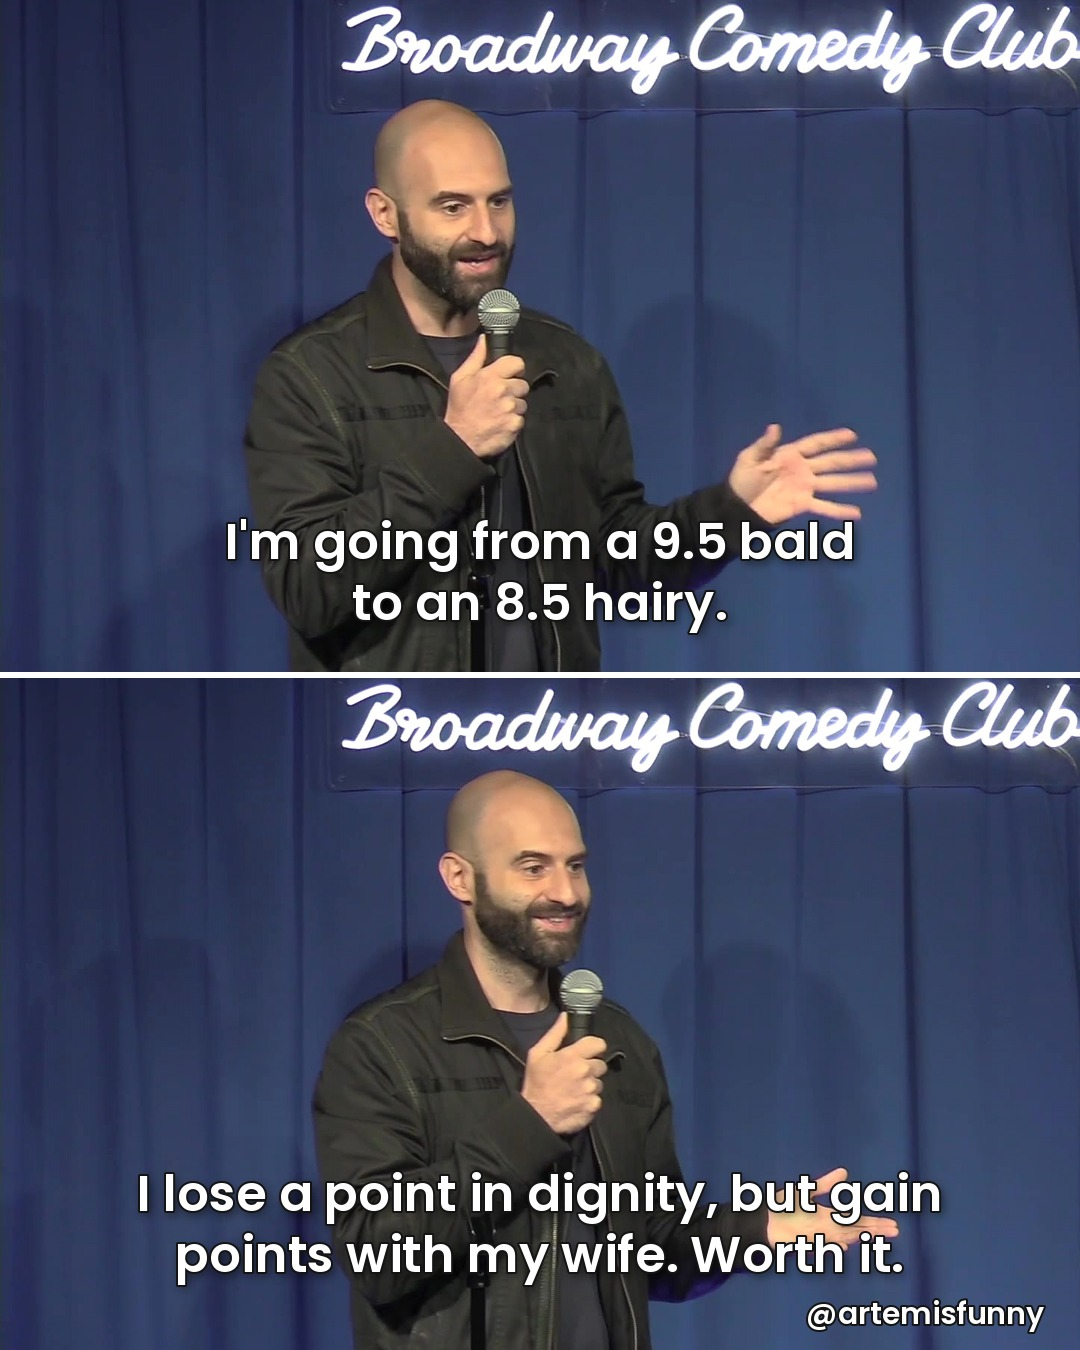
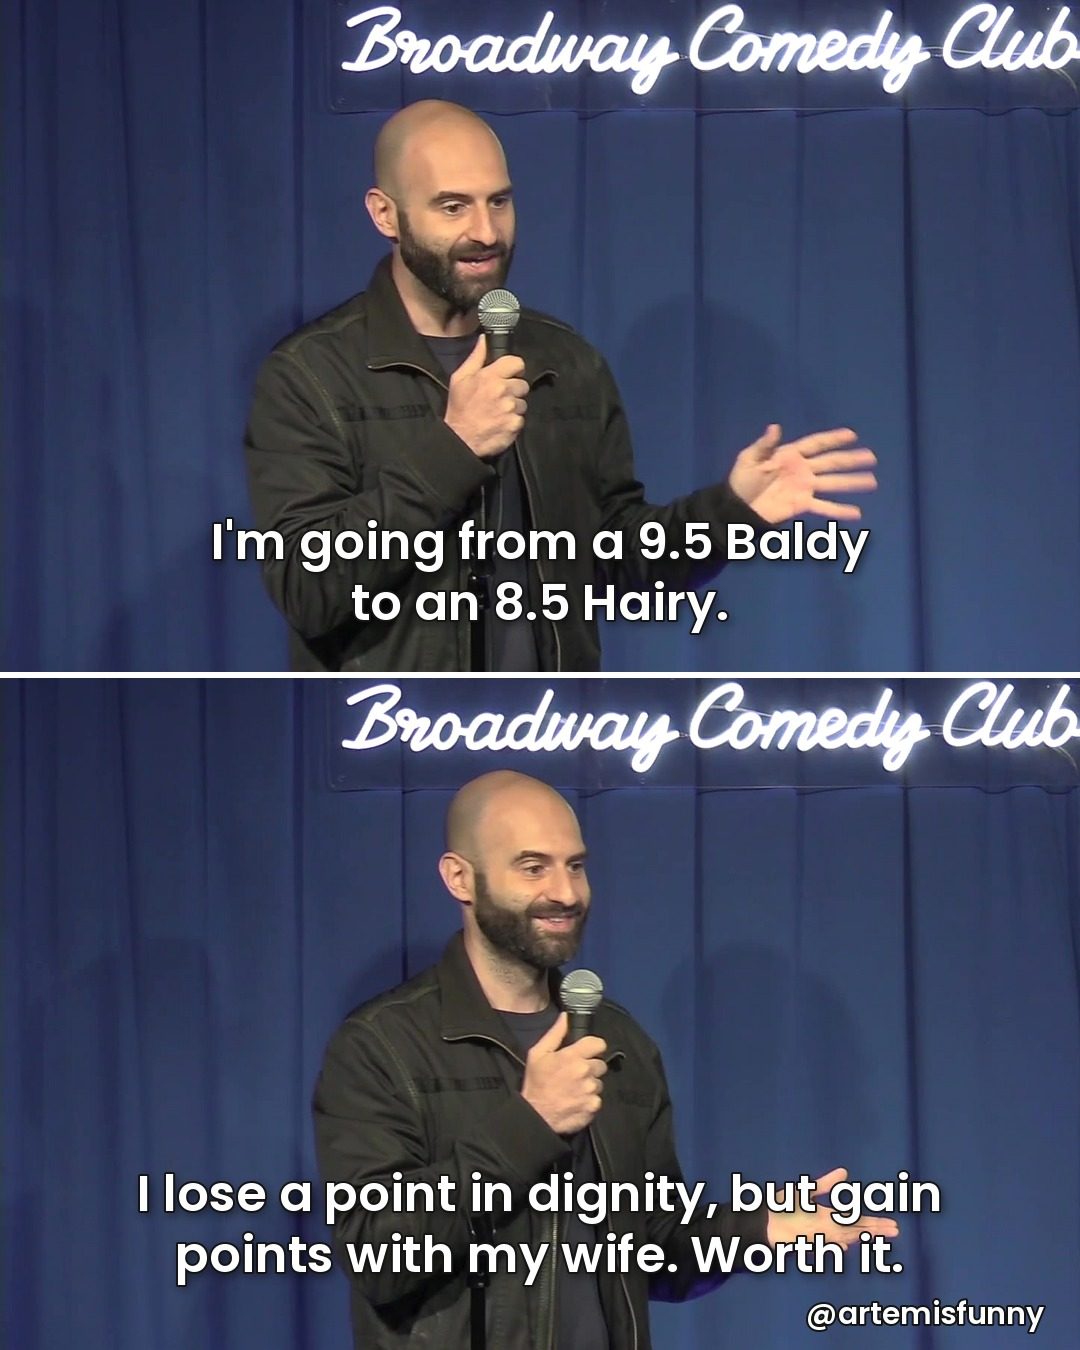
Detransitioning carousel C: Baldy / Hairy wording
Claude-Session: https://claude.ai/code/session_01EF93tfDE8yfhJqTCuzQwWf

Changed region(s): [[0.1833, 0.3733, 0.825, 0.4667], [0.3361, 0.4356, 0.3667, 0.4667]]

diff --git a/joke-carousels/detransition-95/captions.md b/joke-carousels/detransition-95/captions.md
@@ -6,7 +6,7 @@ Misdirect: "detransitioning" plants that he's trans, then Turkey and the 9.5 rat
 ## Version C (2026-11-16, punch-up, the one to post)
 Slides: split_detransition_95_C_1.jpg, split_detransition_95_C_2.jpg
 1. "I'm thinking of detransitioning." / "Going to Turkey."
-2. "I'm going from a 9.5 bald / to an 8.5 hairy." / "I lose a point in dignity, but gain points with my wife. Worth it."
+2. "I'm going from a 9.5 Baldy / to an 8.5 Hairy." / "I lose a point in dignity, but gain points with my wife. Worth it."
 Stills: neutral/bb_206, neutral/bb_275, smile/bb_182, smile/bb_212. Caption: Personal news.
 A and B below use the older 9.5-from-8.5 wording.
 
